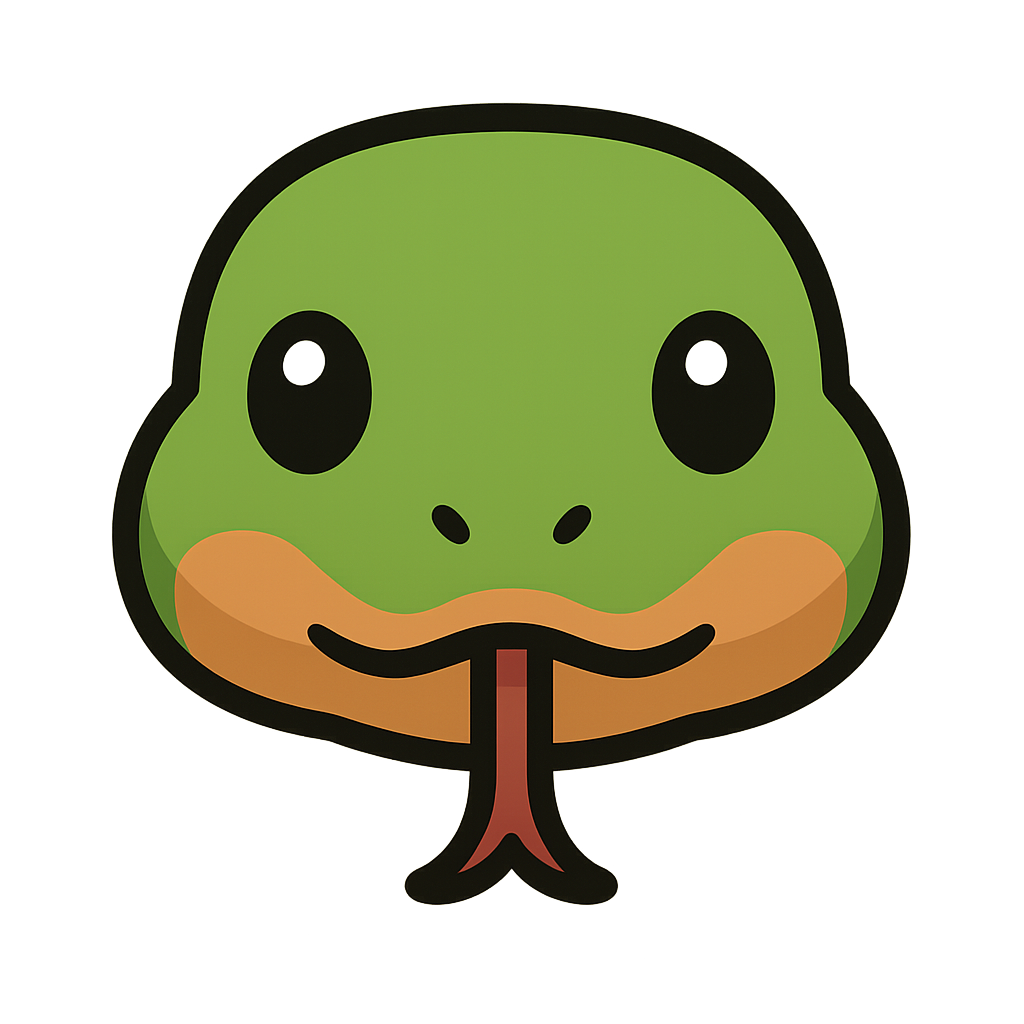
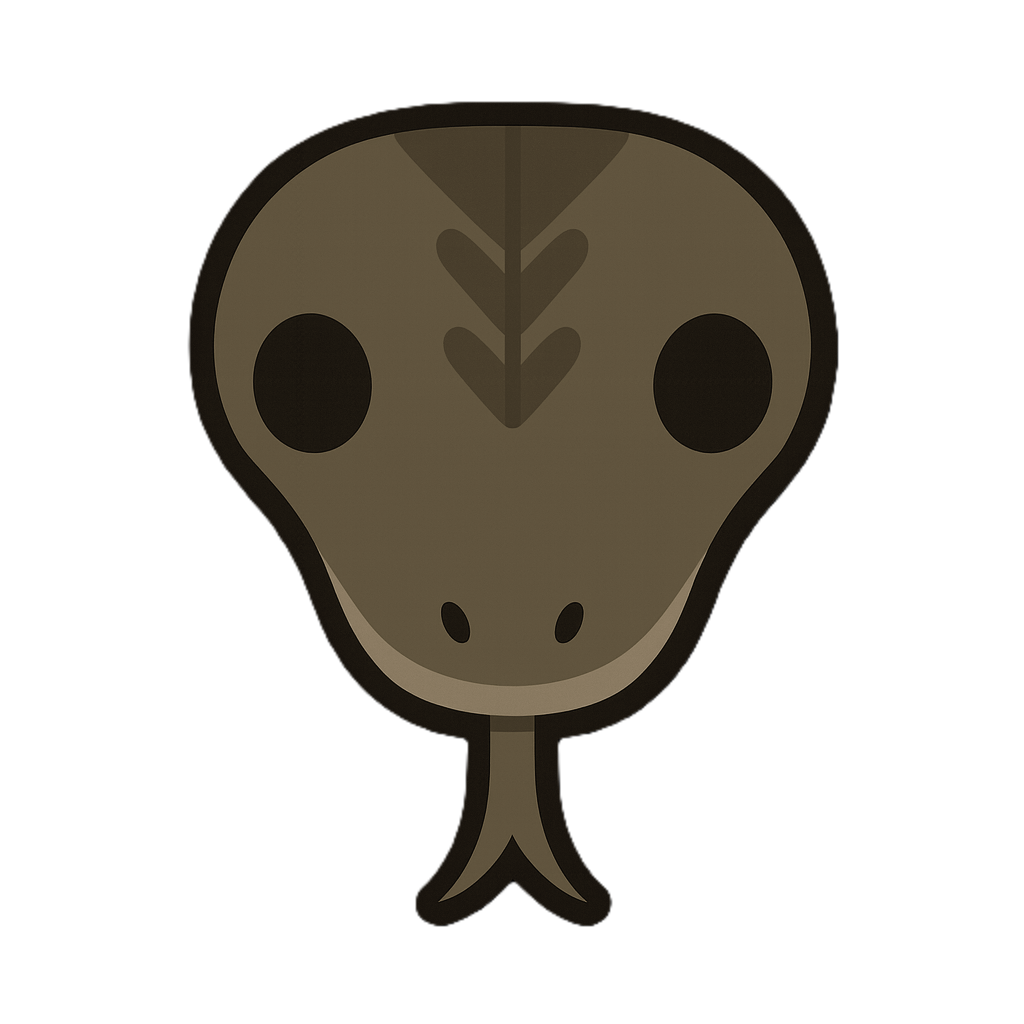
better snake head and fixed the snake head while moving

diff --git a/pygame/snake_v2/option.py b/pygame/snake_v2/option.py
@@ -4,6 +4,7 @@ pygame.init()
 path = os.path.dirname(__file__)
 asset = os.path.join(path, "assets")
 snake = os.path.join(asset, "snake")
+food = os.path.join(asset, "food")
 class options:
     def __init__(self):
         snakes = os.listdir(snake)
@@ -13,3 +14,11 @@ class options:
         self.snake = [pygame.transform.scale(pygame.image.load(img), (40, 40)) for img in snake_images]
 
         self.snake_main = self.snake[0] if self.snake else None
+        
+        foods = os.listdir(food)
+        
+        food_img = [os.path.join(food, f) for f in foods if f.lower().endswith((".png", ".jpg", ".jpeg"))]
+        
+        self.food = [pygame.transform.scale(pygame.image.load(img), (40, 40)) for img in food_img]
+        
+        self.food_main = self.food[0] if self.food else None

diff --git a/pygame/snake_v2/snake.py b/pygame/snake_v2/snake.py
@@ -30,11 +30,11 @@ class Snake:
         self.orient()
     def orient(self):
         if self.dx == 1:
-            self.head = pygame.transform.rotate(self.original, 270)
-        elif self.dx == -1:
             self.head = pygame.transform.rotate(self.original, 90)
+        elif self.dx == -1:
+            self.head = pygame.transform.rotate(self.original, 270)
         elif self.dy == 1:
-            self.head = pygame.transform.rotate(self.original, 180)
-        elif self.dy == -1:
             self.head = self.original
+        elif self.dy == -1:
+            self.head = pygame.transform.rotate(self.original, 180)
         pass

diff --git a/pygame/snake_v2/game.py b/pygame/snake_v2/game.py
@@ -1,7 +1,7 @@
 import pygame
 from screen_and_menu import Menu
 
-move_delay = 20
+move_delay = 30
 
 last_move_time = pygame.time.get_ticks()
 
@@ -68,5 +68,5 @@ while run:
             last_move_time = now
 
     pygame.display.update()
-    clock.tick(60)
+    clock.tick(120)
 pygame.quit()

diff --git a/pygame/snake_v2/food.py b/pygame/snake_v2/food.py
@@ -1,0 +1,5 @@
+import pygame
+
+class Food:
+    def __init__(self):
+        pass
